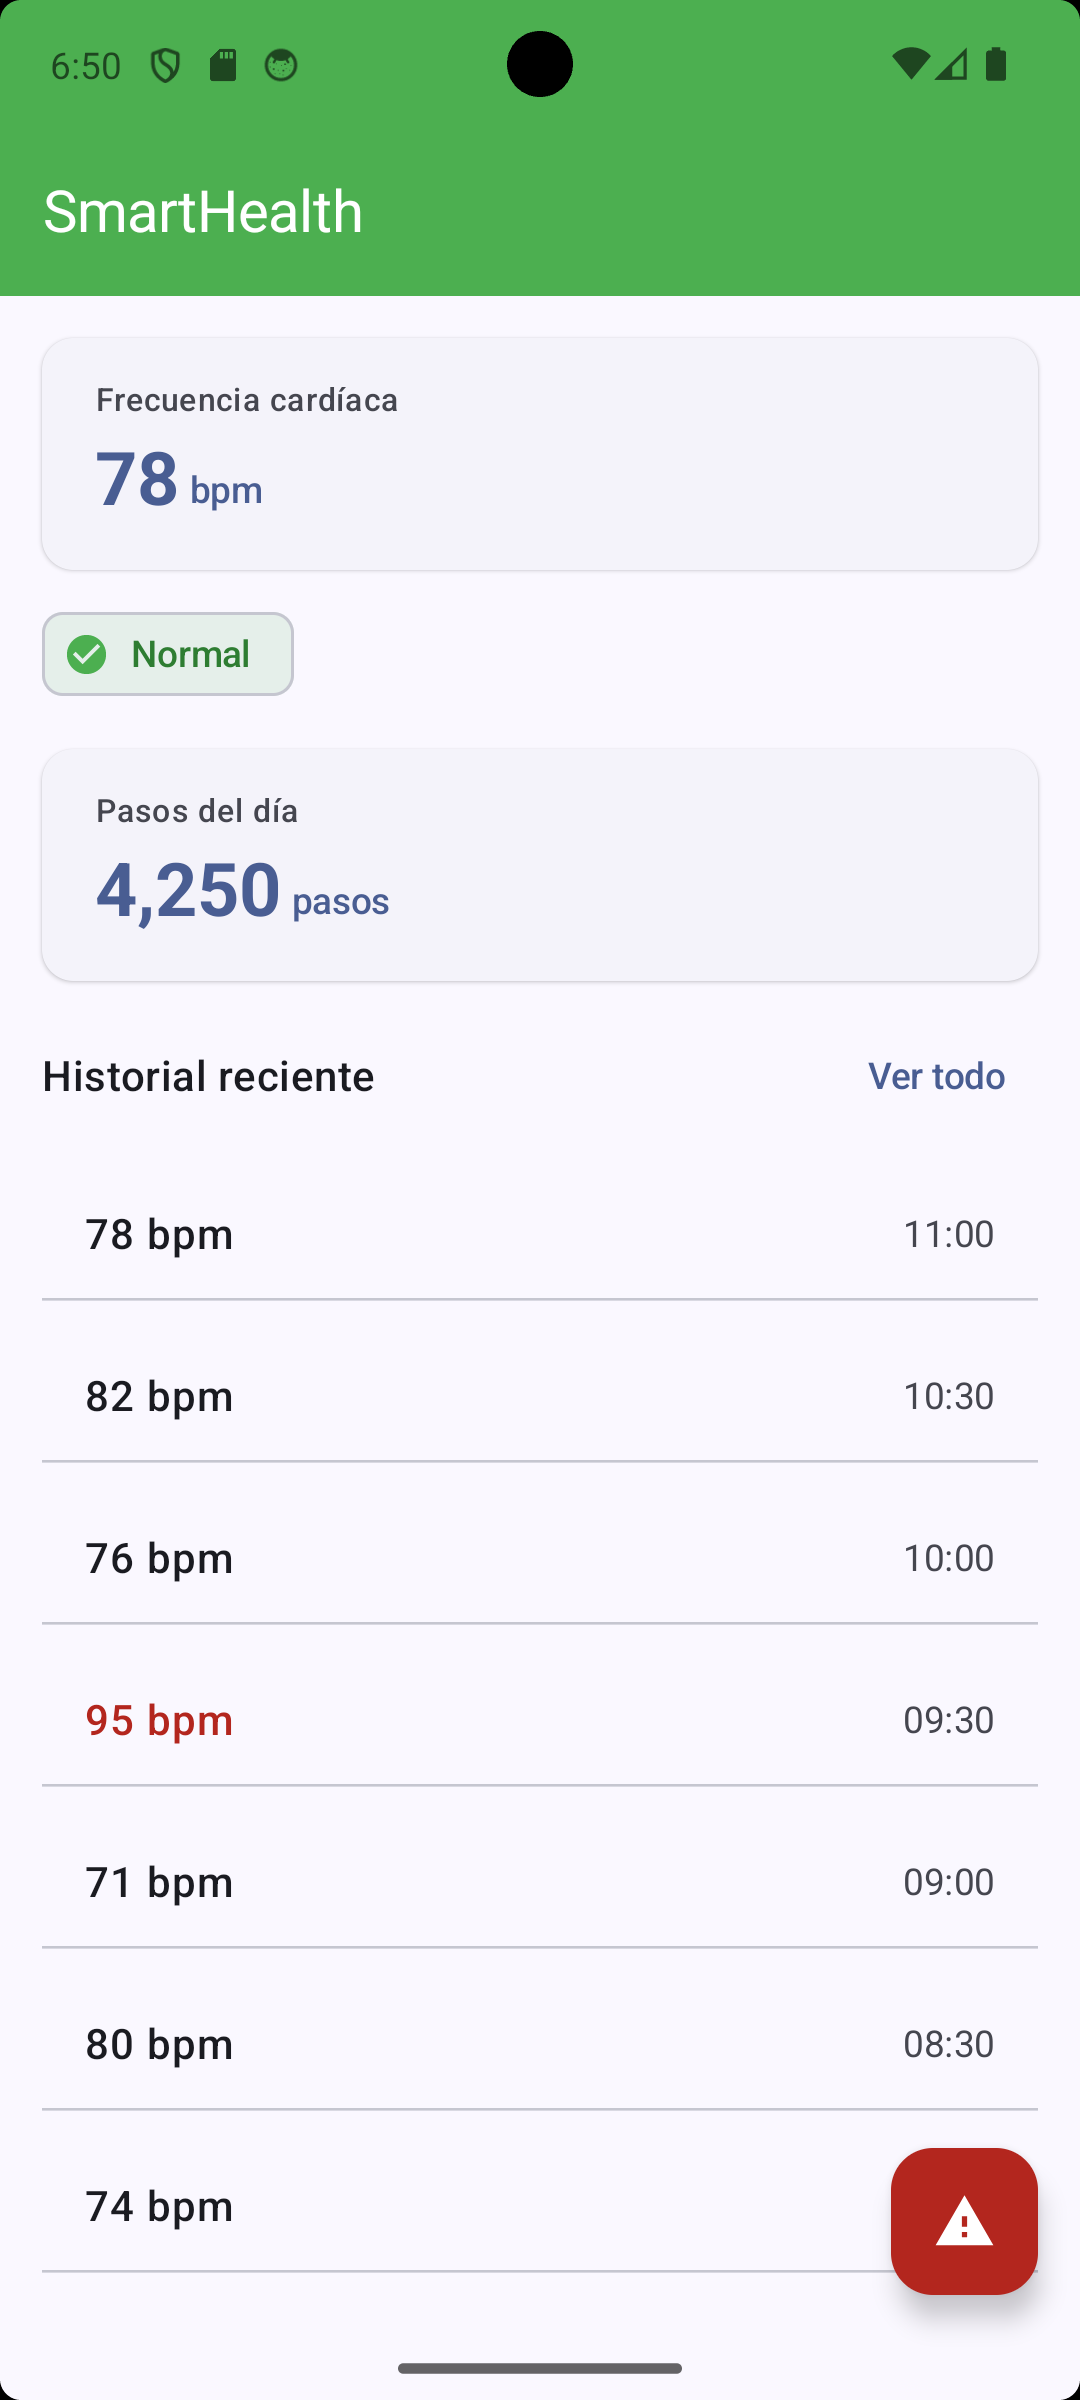
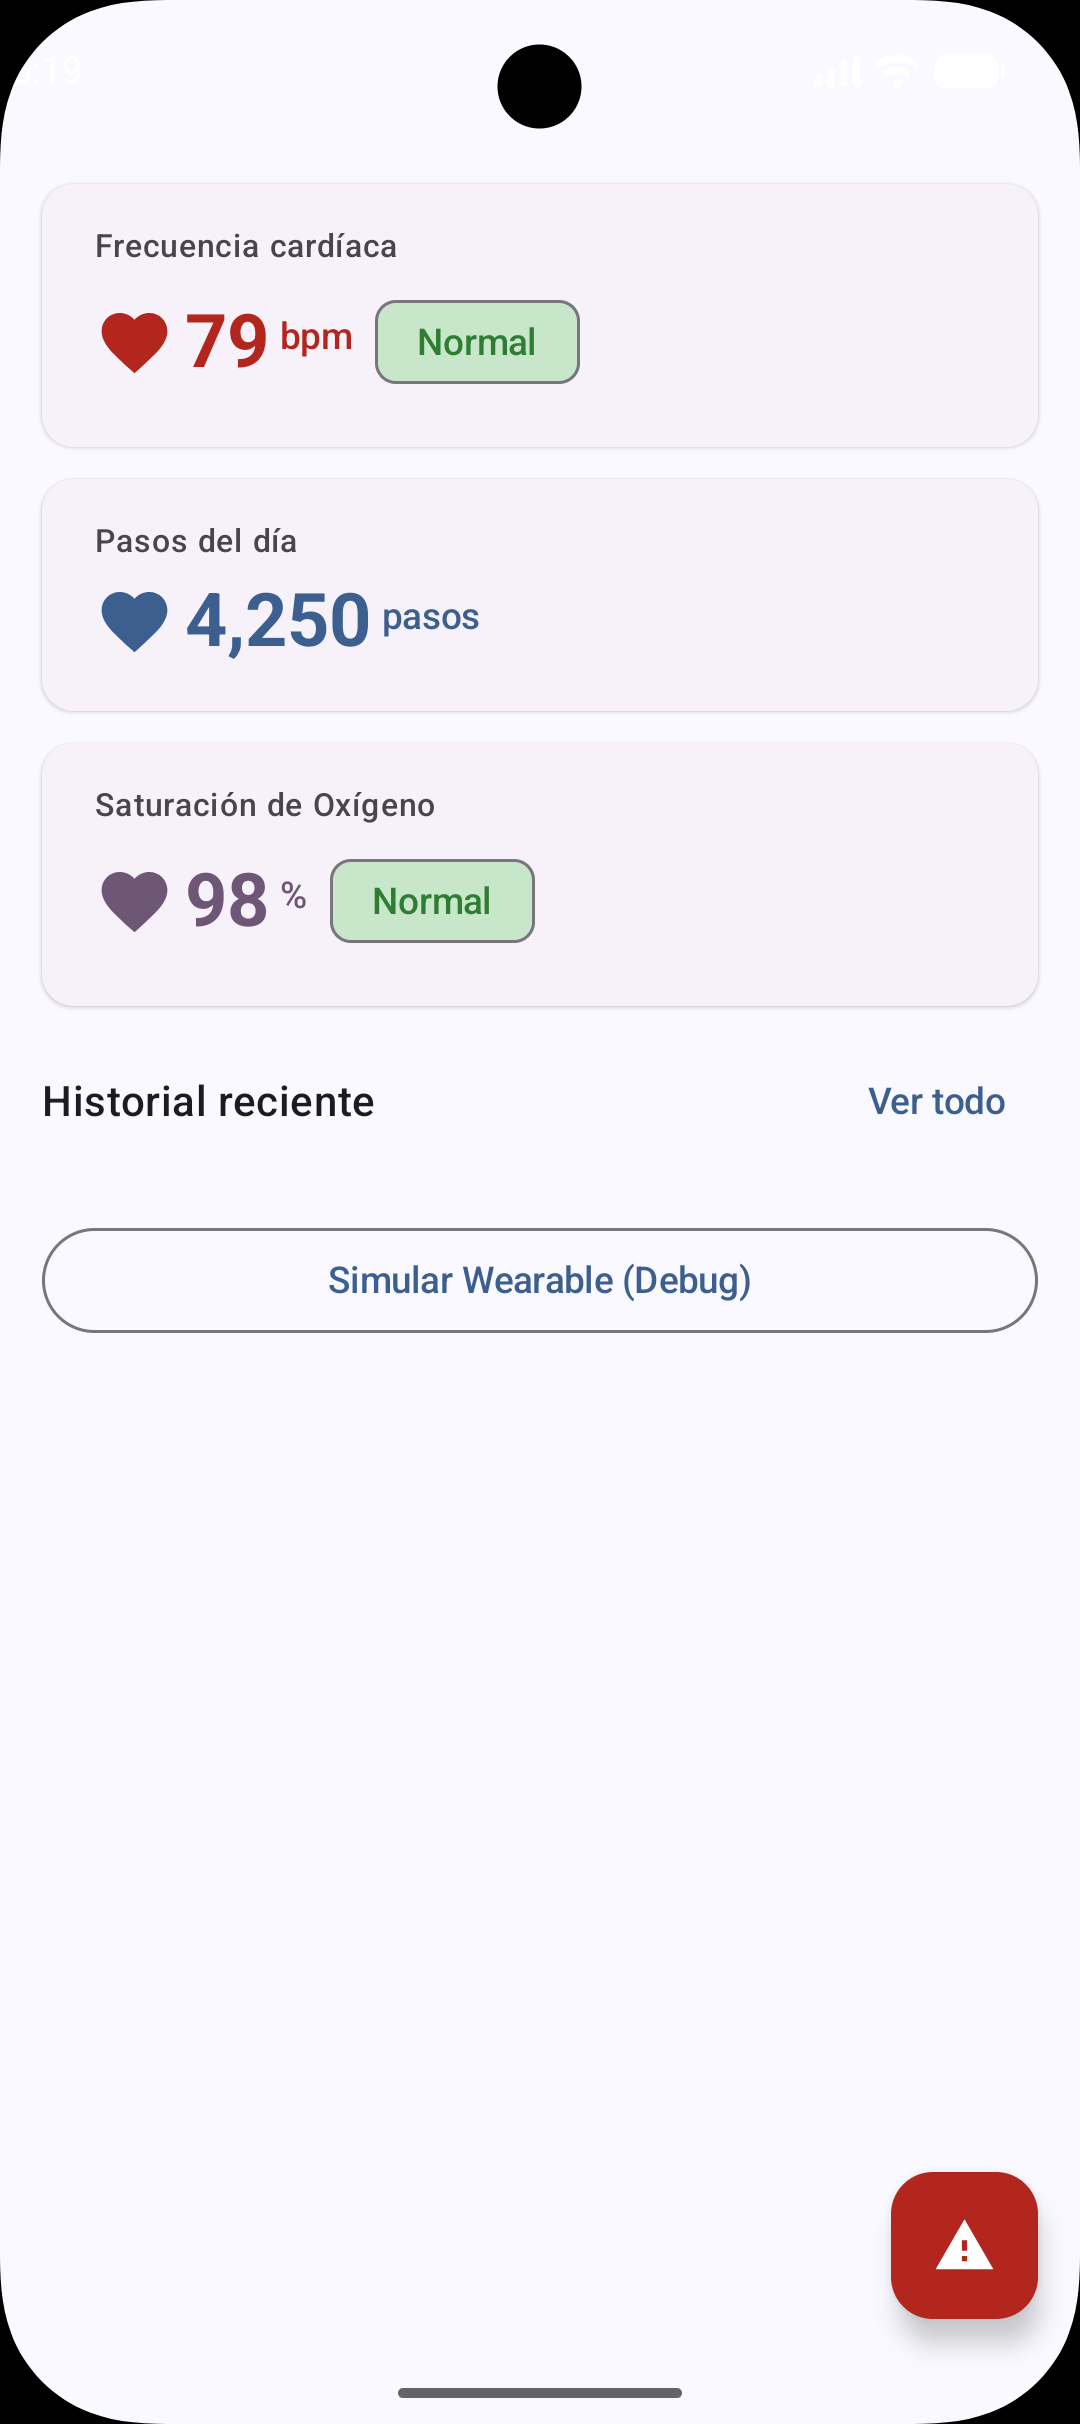
docs: add final screenshots and complete README for Unidad II

diff --git a/README.md b/README.md
@@ -1,47 +1,38 @@
-
-
 # SmartHealth Monitor
 
-Aplicación Android multiplataforma para monitoreo de salud personal.
-Desarrollada como proyecto integrador en UTNG — 9° Cuatrimestre 2025.
+![Android CI](https://img.shields.io/badge/Android-API26+-green)
+![Compose](https://img.shields.io/badge/Jetpack%20Compose-MD3-blue)
+
+Aplicación Android de monitoreo de salud personal en tiempo real.
+Desarrollada como proyecto integrador — UTNG 9° Cuatrimestre 2025.
 
 ## Stack tecnológico
-- Kotlin + Jetpack Compose
-- Material Design 3
-- Wearable Data Layer API (Wear OS)
-- Android TV / Leanback + Media3
-- Jetpack Navigation + Room + StateFlow
 
-## Pantallas implementadas
-- [x] LoginScreen — S4
-- [x] DashboardScreen — S5
-- [ ] Historial + wearable real — S6
-- [ ] Android TV — S10-S12
+| Tecnología | Uso |
+|---|---|
+| Kotlin + Jetpack Compose | UI declarativa con Material Design 3 |
+| Wearable Data Layer API  | Comunicación reloj ↔ teléfono (BLE) |
+| Health Services API     | Sensor FC real en background (Wear OS) |
+| Room Database           | Historial persistente de lecturas FC |
+| Jetpack Navigation      | NavHost entre 4 pantallas |
+| GitHub + Conventional Commits | Control de versiones profesional |
 
-## Autor
-Karen Anahi Padron Martinez — UTNG — [email redacted]
+## Pantallas
+
+| Pantalla | Descripción |
+|---|---|
+| LoginScreen | Autenticación con validación y State |
+| DashboardScreen | FC y Pasos en tiempo real del wearable |
+| HistorialScreen | Lecturas persistidas en Room con Flow reactivo |
+| AlertaScreen | AlertDialog MD3 + Snackbar de confirmación |
 
 ## Capturas de pantalla
 
-<div align="center">
+![Login](screenshots/login.png)
+![Dashboard](screenshots/dashboard.png)
+![Historial](screenshots/historial.png)
+![Alerta](screenshots/alerta.png)
 
-### Login
-<img src="screenshots/login.png" alt="Login Screen" width="300"/>
+## Autor
 
-*Pantalla de inicio de sesión con validación de email y contraseña*
-
-### Dashboard
-<img src="screenshots/dashboard.png" alt="Dashboard Screen" width="300"/>
-
-*Dashboard principal con FC, pasos e historial reciente*
-
-</div>
-
-## Stack tecnológico
-- Kotlin + Jetpack Compose
-- Material Design 3
-- Wearable Data Layer API (Wear OS)
-- Android TV / Leanback + Media3
-- Jetpack Navigation + Room + StateFlow
-
-
+Karen Anahi Padrón Martínez — UTNG — Ing. en Desarrollo y Gestión de Software